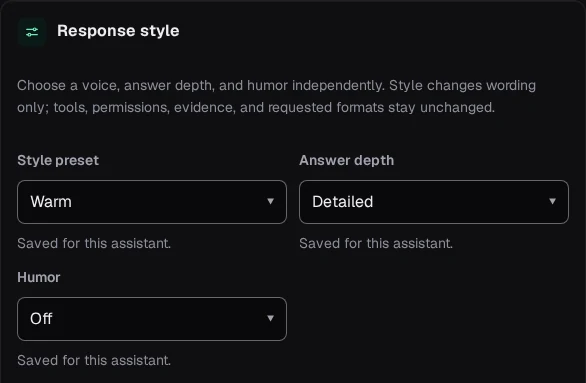
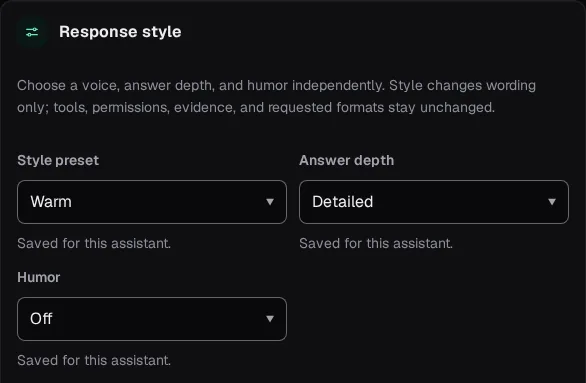
Regenerate response-style captures and document the shared scales
The assistant settings page changed layout, so the marketing site's Response
style crops are regenerated from the real Behavior pane by a committed script
(docs/realignment/capture_response_style.py) at the sizes the page embeds, and
the site's asset hashes are restamped.

DESIGN.md, design-system.md, the changelog and the acceptance-test index now
state the type scale, the spacing rhythm and control-height ladder, the settings
section rail, the grouped options popover and the amber reminder action, and
index the three new guard tests.

Changed region(s): [[0.0922, 0.0574, 0.3072, 0.1149]]

diff --git a/website/index.html b/website/index.html
@@ -445,8 +445,8 @@
           </div>
           <figure class="response-style-capture">
             <picture>
-              <source media="(max-width: 640px)" srcset="assets/captures/response-style-phone.webp?v=91ba32e5" width="340" height="544">
-              <img src="assets/captures/response-style-desktop.webp?v=7933a4e4" width="586" height="383" loading="lazy" decoding="async" alt="Hutch assistant settings showing separate Warm voice, Detailed answer depth, and Off humor controls">
+              <source media="(max-width: 640px)" srcset="assets/captures/response-style-phone.webp?v=abfc5bb4" width="340" height="544">
+              <img src="assets/captures/response-style-desktop.webp?v=c859b96f" width="586" height="383" loading="lazy" decoding="async" alt="Hutch assistant settings showing separate Warm voice, Detailed answer depth, and Off humor controls">
             </picture>
             <figcaption>The real local settings screen, captured with a fictional assistant and no model request.</figcaption>
           </figure>

diff --git a/docs/realignment/capture_response_style.py b/docs/realignment/capture_response_style.py
@@ -1,0 +1,93 @@
+"""Regenerate the marketing site's response-style captures from the real assistant settings panel.
+
+Starts the actual Hutch app in-process against a new temporary state directory, creates the fictional
+`Design Partner` assistant (no model route, request or output), saves the Warm / Detailed / Off response
+style through the real controls, and crops the Response style panel at the two sizes the page embeds
+(586x383 beside the copy, 340x544 on phones). Nothing is mocked or composited.
+
+    PYTHONPATH=src python docs/realignment/capture_response_style.py
+    node scripts/stamp_site_assets.mjs
+"""
+from __future__ import annotations
+
+import io
+import tempfile
+import threading
+import time
+from pathlib import Path
+
+import uvicorn
+from PIL import Image
+from playwright.sync_api import sync_playwright
+
+from hutch.models import Bot
+from hutch.server.app import create_app
+
+ROOT = Path(__file__).resolve().parents[2]
+OUT = ROOT / "website/assets/captures"
+# name, viewport, touch, crop size embedded by website/index.html
+# The desktop viewport is chosen so the settings pane (viewport - 272px sidebar - 64px gutters - 240px rail) is exactly
+# the 586px the page embeds; the phone pane is the viewport minus its 32px gutters.
+SIZES = (("desktop", (1162, 960), False, (586, 383)), ("phone", (390, 844), True, (340, 544)))
+
+
+def serve(state: str):
+    import os
+    os.environ["HUTCH_STATE_DIR"] = state
+    app = create_app()
+    app.state.store.create_bot(Bot(name="design-partner", display_name="Design Partner", model="mock/demo", tools=[]))
+    server = uvicorn.Server(uvicorn.Config(app, host="127.0.0.1", port=0, log_level="error", lifespan="on"))
+    threading.Thread(target=server.run, daemon=True).start()
+    while not server.started:
+        time.sleep(0.02)
+    return server, f"http://127.0.0.1:{server.servers[0].sockets[0].getsockname()[1]}"
+
+
+def open_behavior(page, base: str) -> None:
+    page.goto(f"{base}/#/bot/design-partner", wait_until="domcontentloaded")
+    page.locator('[data-settings-tab="behavior"]').click()
+    page.locator("#persona-form-slot .persona-form").wait_for()
+
+
+def main() -> None:
+    with tempfile.TemporaryDirectory(prefix="hutch-response-style-") as state:
+        server, base = serve(state)
+        try:
+            with sync_playwright() as p:
+                browser = p.chromium.launch()
+                saved = False
+                for name, (width, height), touch, (crop_w, crop_h) in SIZES:
+                    context = browser.new_context(viewport={"width": width, "height": height}, is_mobile=touch,
+                                                  has_touch=touch, reduced_motion="reduce")
+                    page = context.new_page()
+                    open_behavior(page, base)
+                    form = page.locator("#persona-form-slot .persona-form")
+                    if not saved:                       # the first pass saves; later passes show the stored choice
+                        form.locator('[data-persona-field="preset"]').select_option(label="Warm")
+                        form.locator('[data-persona-field="depth"]').select_option(label="Detailed")
+                        form.locator('[data-persona-field="humor"]').select_option(label="Off")
+                        form.locator("[data-persona-save]").click()
+                        page.get_by_text("Saved.", exact=True).wait_for()
+                        saved = True
+                        open_behavior(page, base)       # reload: the panel must show what was really saved
+                    assert form.locator('[data-persona-origin="humor"]').inner_text().startswith("Saved for this assistant")
+                    panel = form.bounding_box()
+                    page.evaluate("document.fonts.ready")
+                    page.locator("main#view > .page-scroll").evaluate("el => el.scrollTo(0, 0)")
+                    page.evaluate(f"document.querySelector('#persona-form-slot').scrollIntoView({{block: 'start'}})")
+                    page.wait_for_timeout(300)
+                    panel = form.bounding_box()
+                    assert panel["width"] >= crop_w - 20, f"{name}: the panel is narrower than the crop it must fill"
+                    rail = page.locator(".settings-rail").bounding_box()
+                    assert width >= 900 or panel["y"] >= rail["y"] + rail["height"] - 1, f"{name}: the sticky rail covers the panel title"
+                    shot = Image.open(io.BytesIO(page.screenshot(clip={"x": panel["x"], "y": panel["y"], "width": crop_w, "height": crop_h})))
+                    shot.convert("RGB").save(OUT / f"response-style-{name}.webp", "WEBP", quality=82, method=6)
+                    print(f"{name}: panel {panel['width']:.0f}x{panel['height']:.0f} -> {crop_w}x{crop_h}")
+                    context.close()
+                browser.close()
+        finally:
+            server.should_exit = True
+
+
+if __name__ == "__main__":
+    main()

diff --git a/docs/realignment/tests.md b/docs/realignment/tests.md
@@ -17,7 +17,10 @@ browser. "Live" means it needs something this host did not have and is skipped w
 | T-SCHEDULE-CONTROL | A durable workspace pause is distinct from per-Bot pause; a due snapshot taken before pause cannot admit a run after pause commits; queued/running work is unchanged; pause survives reload and migration; the overview remains readable and scrollable at desktop/tablet/phone without external requests | API + scheduler + migration + Chromium app/site | `tests/test_api.py::test_workspace_schedule_control_is_durable_and_separate_from_bot_pause`, `tests/test_scheduler.py::test_workspace_pause_fences_a_due_snapshot_before_schedule_admission`, `tests/test_migration.py::test_v39_workspace_settings_gain_durable_schedule_pause_and_outbox`, `tests/e2e/test_browser.py::test_schedule_overview_shows_local_times_and_pauses_only_future_occurrences`, `tests/e2e/test_website.py::test_public_workflow_describes_named_recurring_tasks` | fixture-only; no model/provider call or external request; screenshots and trace in `artifacts/schedules/` and `artifacts/bot-purpose-refinement/marketing/` |
 | T-SCHEDULE-WORKFLOW | A routine links only an activated saved definition, pins one immutable revision and checked inputs, is enabled separately, and atomically claims its due occurrence with one workflow attempt; Run now reuses the same pin without advancing the marker; retries are idempotent; the editor works by keyboard and reflows without horizontal overflow | API + engine/scheduler + Chromium at 320/360/768/1440 | `tests/test_workflow_api.py::test_routine_link_requires_an_activated_workflow_and_pins_validated_revision`, `test_run_now_launches_the_routine_pinned_revision_idempotently_without_advancing_schedule`, `tests/test_workflow_engine.py::test_existing_scheduler_runs_the_pinned_saved_workflow_once`, `tests/e2e/test_browser.py::test_routine_editor_links_an_activated_workflow_accessibly_across_viewports` | deterministic local plan only; no live model/provider request; captures, trace, hashes and visual review in `artifacts/scheduled-workflow-link-2026-10-11/` |
 | T-UI-SURFACE-SWEEP | Primary workspace routes and marketing render independently at desktop/tablet/phone; 320px compact-phone layout has no horizontal overflow; Fleet menus and schedule chooser work; run history uses cards through tablet widths; `/connections` opens the current Apps & AI route | local Chromium + synthetic SQLite data | `tests/e2e/test_design_system.py::test_every_workspace_route_renders_independently_at_responsive_sizes`, `tests/test_dashboard.py::test_connections_url_opens_the_current_apps_and_ai_screen`, `tests/e2e/test_browser.py::test_dashboard_polish_keeps_work_feedback_steady_and_headings_readable` | fixture-only; no external/provider requests; canonical route redirect verified and current route screenshots individually reviewed in `artifacts/ui-surface-review/`; legacy server forms remain available at `/legacy/connections` and retain their post handlers |
-| T-DISCLOSURE-AXES | Settings disclosures share one row skeleton: no `<details>` inside `<details>` in connection cards; Outlook event creation, Outlook Mail sending, and Gmail sending are siblings of the access they relate to; in-card summaries share one computed padding/min-height; no summary below a 24px target; assistant-settings summaries share their panel edge and content padding; keyboard Enter toggles a peer disclosure; provider key input ≥44px; no horizontal overflow at desktop/short-desktop/tablet/phone/compact-phone | local Chromium + synthetic SQLite data | `tests/e2e/test_design_system.py::test_connection_and_assistant_settings_share_disclosure_axes`, `tests/test_site_tokens.py::test_studio_stylesheet_references_only_defined_tokens` | fixture-only; no external/provider requests; captures individually reviewed in `artifacts/settings-disclosure-axes-2026-10-10/`; token guard verified to fail on a simulated rename; no Firefox/WebKit, screen-reader, or physical-device check |
+| T-SCALE-RADIUS | Every painted corner on the main routes (desktop and phone), the command palette and the marketing site, and every radius declared in a stylesheet, is on the five-step scale (micro 4, control 8, panel 12, chat 20, chip 100px, 50% for circles) | local Chromium + synthetic SQLite data | `tests/e2e/test_radius_scale.py` | passing |
+| T-SCALE-TYPE-SPACE | Rendered text uses only the six type steps (12, 13, 14, 16, 18, 24; 17 for reading; the 28–36 display band) on every route, every settings pane and the options popover at desktop and phone; surface padding and the gaps between stacked surfaces sit on the 4px grid | local Chromium + synthetic SQLite data | `tests/e2e/test_type_and_spacing_scale.py` | passing |
+| T-SETTINGS-RAIL | Assistant settings are seven panes behind an ARIA tablist: Profile is selected first, only the selected pane is exposed, arrows/Home/End move and select, the selected tab stays fully inside the rail, there is no horizontal overflow, and the rail sits beside the pane on desktop and above it on phones | local Chromium + synthetic SQLite data | `tests/e2e/test_design_system.py::test_assistant_settings_keep_everyday_edits_up_front` | passing |
+| T-DISCLOSURE-AXES | Settings disclosures share one row skeleton: no `<details>` inside `<details>` in connection cards; Outlook event creation, Outlook Mail sending, and Gmail sending are siblings of the access they relate to; in-card summaries share one computed padding/min-height; no summary below a 24px target; the assistant usage-limits summary shares its panel edge and content padding; keyboard Enter toggles a peer disclosure; provider key input ≥44px; no horizontal overflow at desktop/short-desktop/tablet/phone/compact-phone | local Chromium + synthetic SQLite data | `tests/e2e/test_design_system.py::test_connection_and_assistant_settings_share_disclosure_axes`, `tests/test_site_tokens.py::test_studio_stylesheet_references_only_defined_tokens` | fixture-only; no external/provider requests; captures individually reviewed in `artifacts/settings-disclosure-axes-2026-10-10/`; token guard verified to fail on a simulated rename; no Firefox/WebKit, screen-reader, or physical-device check |
 | T-BOT-SETUP-CLARIFICATION | From an exact chat request, ask at most five material follow-ups one at a time with choices/free text; preserve the unsent answer through browser reload; validate the coordinator's JSON response; show an editable draft and assumptions; never create a Bot or alter tools/permissions before confirmation | conversation API + local Chromium desktop/tablet/phone | `tests/test_conversations.py::test_bot_purpose_draft_uses_only_selected_source_and_has_no_tools`, `tests/e2e/test_browser.py::test_chat_sourced_bot_setup_clarifies_one_detail_and_restores_after_reload`, `tests/e2e/test_browser.py::test_coordinator_can_refine_a_bot_purpose_without_changing_its_source_or_authority` | passing local fixtures; no provider/external requests; exact original request and answer history checked, and question/draft captures individually inspected in `artifacts/bot-setup-clarification/`; same-browser storage only, no screen-reader or physical-device check |
 | T-STATE-MACHINE | Only table transitions are possible; terminal is absorbing; stale fence rejected | offline (property) | `tests/test_lifecycle.py` | passing |
 | T-SHELL-READABLE | Readable command contexts preserve policy; ambiguous syntax fails closed rather than being assumed benign | offline (property) | `tests/test_shellparse.py` | passing |

diff --git a/DESIGN.md b/DESIGN.md
@@ -98,9 +98,12 @@ rounded:
 spacing:
   xs: "4px"
   sm: "8px"
+  snug: "12px"
   md: "16px"
   lg: "24px"
   xl: "32px"
+  xxl: "40px"
+  section: "56px"
 components:
   button-primary:
     backgroundColor: "{colors.primary}"
@@ -191,7 +194,8 @@ emerald is forbidden (≈2.5:1).
 **The Amber Rule.** Amber appears only where a person must act now — pending
 approvals, expiring deadlines under two minutes, the attention nav badge. Never as
 decoration, never on "done" or "failed".
-**The Scale Rule.** Every corner radius comes from `rounded.*`; no ad-hoc values.
+**The Scale Rule.** Every corner radius comes from `rounded.*`, every text size from the type scale and every
+padding or gap from the spacing scale; no ad-hoc values.
 **The Mono Rule.** Mono type is for code, commands, paths, identifiers and values the
 server measured — never for prose, labels, or marketing.
 **The Edge Rule.** A control that is identified by its boundary (text field, select,
@@ -234,7 +238,16 @@ on Activity. The header repeats none of them.
   0.75rem/1.45. Composer text stays at 1rem or above.
 - **Labels:** Geist with medium/semibold weight and restrained uppercase tracking
   only for compact group labels.
-- **Wordmark:** 1.0625rem/1 weight 650, tight tracking.
+- **The type scale.** Product text sets in six steps and nothing between them:
+  **12** caption and metadata (kbd, chips, group labels), **13** small copy and
+  mono, **14** labels and interface text (navigation, buttons, table cells),
+  **16** body, **18** section titles, modal titles and the wordmark, **24** page
+  titles and figures; **17** is reserved for long reading and the display band
+  (28–36, fluid) for occasional welcome emphasis. 11, 12.5, 13.5, 15 and 20px do
+  not exist in the product; `font-size: 0` is only how a header button collapses
+  to its icon on a narrow screen. Enforced by
+  `tests/e2e/test_type_and_spacing_scale.py`.
+- **Wordmark:** 1.125rem/1 weight 650, tight tracking.
 - **Mono:** commands, paths, code, ids, durations, tokens, budgets — tabular
   numerals, ligatures disabled. Prose never uses mono (The Mono Rule).
 - **Shared voice:** one family across app, supporting pages and marketing site, so the
@@ -275,6 +288,18 @@ on Activity. The header repeats none of them.
   state persists per browser. Expanded, it reads top to bottom: logo with the two global
   round actions (search opens the command palette, plus starts a conversation), quiet
   navigation rows, the assistant roster, and two pill links (Apps & AI, Settings).
+- **Spacing rhythm.** Everything sits on the 4px grid (4, 8, 12, 16, 24, 32, 40,
+  56; 1–2px only for hairlines and optical nudges). Roles, not taste, pick the step:
+  cards and panels pad **16** (12 for dense rows and nested blocks, 24 for hero,
+  empty and first-run surfaces); stacked cards are **16** apart, dense list rows
+  12 (8 on phones), page sections 32; a heading sits 8–12 above its content; a
+  control's icon-to-label gap is 8. Control heights form one ladder: **32** small
+  and inline, **36** header and toolbar controls, **40** primary and decision
+  actions, **44** fields and every control on a coarse pointer. A stack that already
+  has a row gap never also gives its children a bottom margin (that doubled the
+  space between connection cards). Geometry derived from a component (the avatar
+  gutter, an icon-input indent, composer clearance) is computed from that component,
+  not hand-tuned.
 - Conversation column: max 760px, composer pinned 24px above the safe area;
   feed scrolls internally (app frame never page-scrolls).
 - First run follows the width of its own pane (container query), not the window: at
@@ -387,8 +412,9 @@ chosen by the role of the shape and not by taste:
   per Bot (pin/unpin, settings) sits in its own 28px column so ordinary names stay whole
   at the 272px sidebar; hover and focus add contrast. Long names end with an ellipsis
   while the full name remains in the row title; idle Bots collapse into a searchable
-  group in workspaces with ten or more Bots. The roster filter hides until a first
-  assistant exists.
+  group in workspaces with ten or more Bots. Once something is pinned, the group
+  below it gets its own **All assistants** heading so the gap reads as a division. The roster filter hides
+  until a first assistant exists.
 - **Model picker** — a pill beside the composer actions shows the model in use (brand
   tint when it is a one-message override). Its menu groups choices by where they run
   (**On this machine**, **Hosted · leaves this machine**), each row an icon tile, the
@@ -400,13 +426,28 @@ chosen by the role of the shape and not by taste:
   schedule, run recency, estimated tokens and memory counts together under one
   **More details** disclosure. Do not repeat machine-oriented telemetry on every
   card by default; pause/resume and settings remain together in the card menu.
-- **Assistant settings** — start with the editable name and short description.
-  Keep standing directions and technical controls under one optional
-  **Customize how it works** disclosure; preserve its open state after a save so
-  people can adjust several related choices in one visit.
-  Use the shared 1040px rail, with fields responding to their panel's actual
-  width. Range inheritance and its slider/value occupy separate rows so labels
-  remain legible inside the secondary-column layout.
+- **Assistant settings** — seven panes behind a section rail: **Profile** (name,
+  look, role), **Behavior** (standing directions, response style, specialists),
+  **AI model**, **Tools and access**, **Schedule**, **Safety** (approvals,
+  command rules, always-allowed actions) and **Limits and memory**. The rail is an
+  ARIA tablist: vertical beside the pane from 760px of pane width, a scrolling
+  row (sticky, with `scroll-padding` so a focused field is never hidden under it)
+  below; arrows, Home and End move and select; the selected tab is always fully
+  visible; the choice survives the re-render a save triggers and is remembered
+  per assistant for the session. Every pane stays in the DOM so each form keeps
+  its id and handlers; only the selected pane is painted. A pane has one heading
+  and a line saying what it holds, then ordinary panels. The 1040px rail and
+  panel-width-responsive fields still apply; range inheritance and its
+  slider/value occupy separate rows.
+- **Chat and assistant options** — a popover of four labelled groups, each naming
+  what it acts on: **This chat** (rename, pin, mark unread, section, and under More
+  the export, reusable-request and archive actions), **Workflow** (the per-chat
+  mode as a labelled row with its explanation), **This assistant** (response
+  style, assistant settings) and **Go to** (main chat, conversation history).
+  Settings never hide among conversation actions, and a select is never a card
+  inside a menu.
+- **Needs-you reminder** — the strip under the header states the count once; its action wears the amber
+  wash and outline because a person is needed now, not the neutral ghost outline of other secondary actions.
 - **Settings disclosure row** — every collapsible settings row uses the shared
   skeleton: one grid of icon slot, copy, and trailing Show/Hide action, in a
   large panel-level size and a small in-panel size. Borders and fills belong to

diff --git a/CHANGELOG.md b/CHANGELOG.md
@@ -5,6 +5,7 @@ Publication status: nothing has been shipped — there is no tag, GitHub release
 for 0.1.0 or for anything recorded after it, so all post-0.1.0 work sits under Unreleased.
 
 ## [Unreleased]
+- Standardize the dashboard's shape, type and spacing after user review, and arrange assistant settings properly. Corners come from one five-step scale (micro 4, control 8, panel 12, chat 20, chip 100px, 50% for circles; the audit found 15 distinct radii before), text from six steps (12, 13, 14, 16, 18, 24, plus 17 for reading and a display band) and padding and gaps from the 4px grid, with one control-height ladder (32, 36, 40, 44); `tests/e2e/test_radius_scale.py` and `test_type_and_spacing_scale.py` fail with the selector of any off-scale corner, text size, padding or stack gap. The composer is the 20px chat shape again, superseding the earlier 12px entry. Assistant settings were one 10,850px accordion of a dozen panels; they are now seven panes (Profile, Behavior, AI model, Tools and access, Schedule, Safety, Limits and memory) behind a keyboard-navigable section rail, and the chat options popover is regrouped under This chat, Workflow, This assistant and Go to. Fixes found on the way: Response style buttons rendered blank on phones (an icon-only header rule leaked into the popover), the unpinned roster group had no heading, "1 messages", a shared icon for Conversation history and Work history, Activity KPIs flush against the cards above, doubled spacing between connection cards, wrapped Apps & AI status chips, and a sticky rail that could hide focused fields. The response-style site captures are regenerated from the real settings panel by `docs/realignment/capture_response_style.py`.
 - Rework the first-run intro, sidebar and model picker after user review. The intro is a left-aligned hero over a request card and a rail (AI service, how Hutch works), laid out by container width so it holds with the sidebar open, docked or a phone sheet, and keeps the setup action on screen at 320, 375, 390, 1280×720 and landscape-phone sizes. The sidebar adopts the thread's shape language: round Search (opens the command palette) and New actions in the header, quiet navigation rows, a bordered home card for the workspace coordinator, 40px avatars (44px on the home card) with one-line status, soft selection fills with a brand marker, and two pill links at the foot; the assistant filter hides until there is an assistant. The model pill, its menu (grouped by where each model runs, one quiet line per model) and the "Choose a model" dialog (card rows, selection control at the far edge, iconed search) are restyled without changing roles or text. A fit audit over every route at 320, 390, 768, 1024 and 1440 widths plus 200% text found and fixed overflow in approval gates, the Runs filter, chat-library rows and KPI tiles; expanded long requests, step outputs and the Raw/Formatted toggle now survive live updates instead of snapping shut; the phone header keeps the assistant name when it is the coordinator.
 - Redesign the chat workspace and its colour system: each helper's work is a **thread** (avatar → spine → steps → answer) with per-tool step cards (plain-language title, subject, exit code, measured duration, exact request and full output with Copy, raw JSON on request), a "Worked for…" summary that subtracts recorded waits for a person, and a **gate** for permission requests that shows the exact content up front (file previews, `$ command` wells, risk, scope, countdown) with unchanged Allow once / Always allow / Deny semantics and no single-key approve shortcut. Assistant answers render safe Markdown (escape-first, http/https/mailto links, no remote images, copyable code). Avatars carry state through their eyes; the header drops its redundant status chip, counts and needs-you pill; the reminder strip sits in flow instead of over content; the conversation picker truncates with an ellipsis; bubbles, welcome, composer and memory panel are restyled. Typography moves to bundled Geist and Geist Mono (SIL OFL), the palette to neutral graphite with every text token at ≥5:1 and a 3:1 control edge, fixing label-in-name and heading-order defects found by axe. The shared token source, the marketing site (fonts, palette, regenerated first-run and response-style captures) and the design docs follow.
 - Keep the chat composer at its 18px size on phones: the shared-composer restructure had let the 16px touch floor shrink it again, undoing the F-10 follow-up that carved the composer out of that floor. The exclusion and its regression test stay as written.

diff --git a/docs/marketing-site.md b/docs/marketing-site.md
@@ -237,7 +237,7 @@ references, cycles, duplicate names and the declared text/background contrast pa
 | `website/assets/agent/f*-p*.webp` (7x3 look-at-cursor frames) | Original Blender render: `scripts/render_hutch_agent.py` (bpy 5.0.1, Cycles CPU, 96 samples, denoise, transparent film; no chroma keying). Blue palette; an `--palette emerald` variant exists in the script. The body follows a pointer turn at 34%, the visor/cap/face group at 72%, pivoting at the neck. Post: 16px alpha-blur glow pass, unified 620x880 canvas, webp q82. Regenerate with the venv noted in the script docstring. |
 | `website/assets/hutch-agent.webp` | Copy of the centre frame (`f3-p1`), used as the still hero and CTA artwork. |
 | `website/assets/captures/setup-*.webp` | Sanitized captures of the redesigned app from an empty temporary state directory (`docs/realignment/capture_first_run.py`, desktop 1440×1000 and phone 390×1200); no mock run, personal data, provider request or external effect. |
-| `website/assets/captures/response-style-*.webp` | Cropped desktop/phone views from the actual settings capture at `docs/realignment/artifacts/persona-ui-v2-2026-10-11/`; the fictional `Design Partner` has no model route, request or output. The examples beside it are authored HTML text. |
+| `website/assets/captures/response-style-*.webp` | The Response style panel from the real assistant settings (Behavior pane), cropped to the embedded 586×383 and 340×544 by `docs/realignment/capture_response_style.py` against a temporary state directory (2026-10-26): the fictional `Design Partner` has no model route, request or output, and Warm / Detailed / Off are saved through the real controls before the capture. The examples beside it are authored HTML text. |
 | `website/assets/fonts/geist-latin-var.woff2`, `geist-mono-latin-var.woff2` | Geist and Geist Mono (SIL OFL, © Vercel in collaboration with basement.studio), Latin variable subsets made with `pyftsubset`, self-hosted; licence in `OFL-geist.txt`. |
 
 Pointer behaviour is an enhancement: it starts only on `(pointer: fine)` devices with at least 4 cores, no `saveData`, and no

diff --git a/docs/design-system.md b/docs/design-system.md
@@ -95,6 +95,9 @@ and marketing disclosures are not popup menus.
 | Micro / control / panel / chat / pill radius | `4 / 8 / 12 / 20 / 100px` (`50%` for circles) | One shared scale for the dashboard and the site, chosen by role and stepping down when nested; no surface owns a private radius (`tests/e2e/test_radius_scale.py` enforces it) |
 | UI and headings / code and measured data | local Geist / Geist Mono | One family for language; mono for code, commands, paths and machine values |
 | App type roles | `1rem` body / `1.0625rem` reading / `1.5rem` page title | Responsive hierarchy that respects browser text scaling |
+| Product text steps | `12 / 13 / 14 / 16 / 18 / 24px` (17 for long reading, a 28–36 display band) | Caption, small, label, body, section, page title; nothing between them (`tests/e2e/test_type_and_spacing_scale.py`) |
+| Spacing scale | `4 / 8 / 12 / 16 / 24 / 32 / 40 / 56px` | Cards pad 16 (12 dense, 24 hero), stacked cards sit 16 apart, sections 32; 1–2px only for hairlines |
+| Control heights | `32 / 36 / 40 / 44px` | Small and inline / header and toolbar / primary and decisions / fields and coarse pointers |
 | App icon family | `16 / 20 / 24px`, `24px` view box | Local category vectors in 48px desktop/tablet tiles and compact 40px phone rows; exact service names and states stay visible |
 
 The app and marketing site share locally bundled Geist (and Geist Mono for code and
